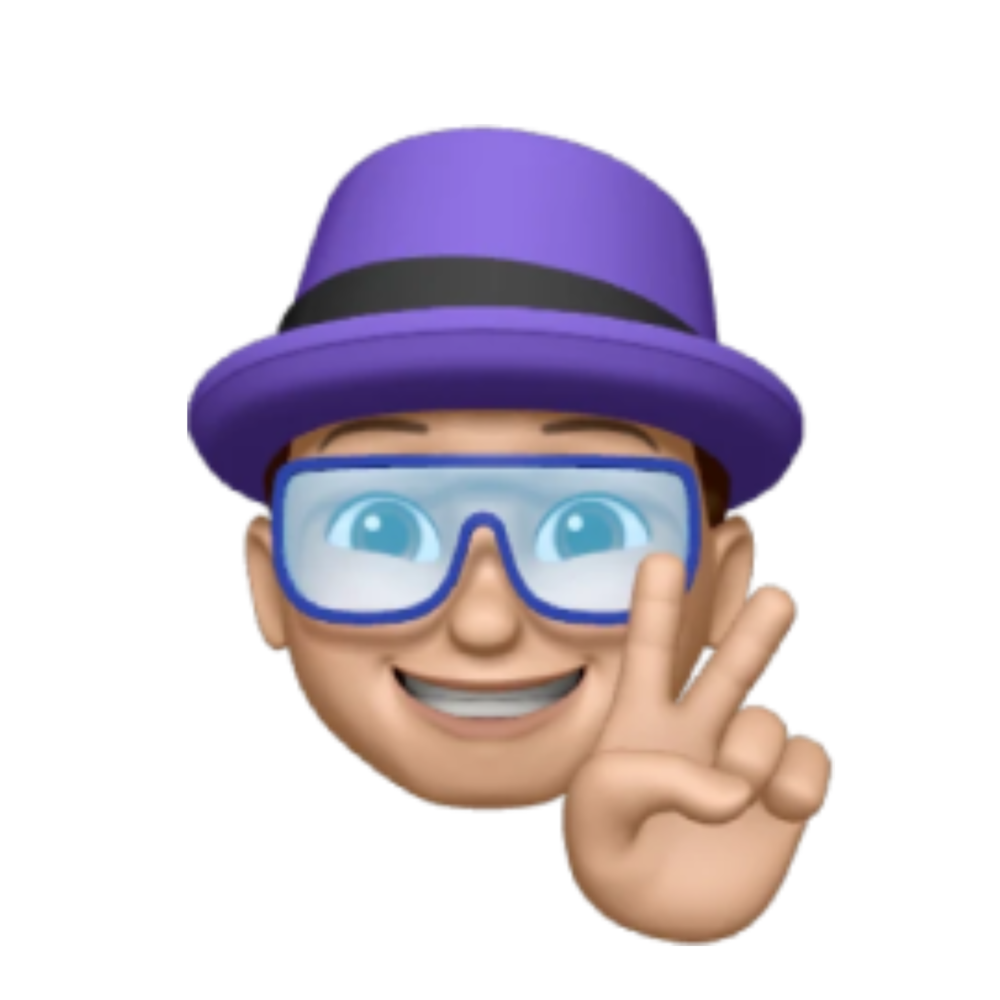
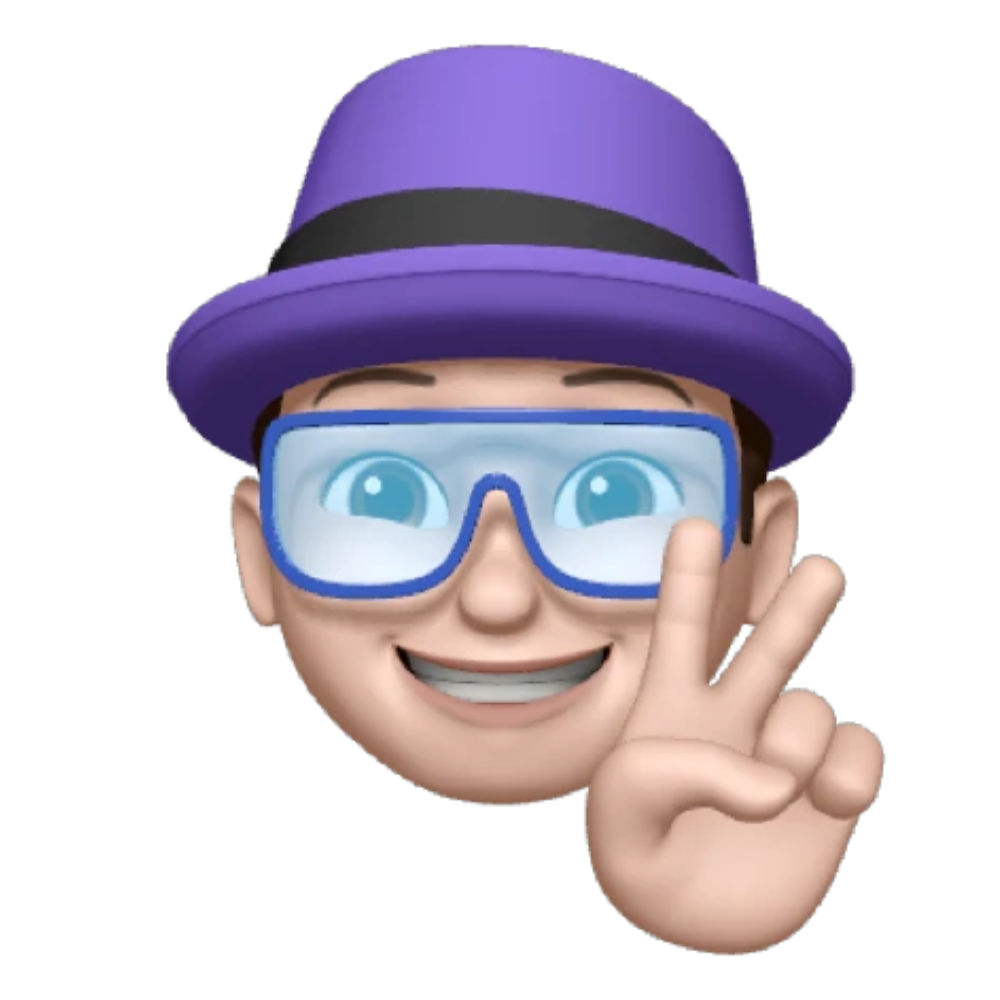
fix team block card paddings, compress images

diff --git a/src/app/pages/team/team.component.scss b/src/app/pages/team/team.component.scss
@@ -184,12 +184,12 @@
         justify-content: center;
         border-radius: 1.5625vw;
         background-color: #ffffff;
-        padding: 0 1.0416666666666667vw 1.3020833333333333vw 1.0416666666666667vw;
+        padding: 1.0416666666666667vw 1.0416666666666667vw 1.3020833333333333vw 1.0416666666666667vw;
 
         .avatar {
           align-self: center;
-          width: 14.0625vw;
-          height: 14.0625vw;
+          width: 12.239583333333334vw;
+          height: 12.239583333333334vw;
 
           img {
             width: 100%;
@@ -198,21 +198,38 @@
         }
 
         .name {
-          margin-top: 0.78125vw;
+          margin-top: 3.5vw;
+          height: 4.166666666666667vw;
 
           p {
             font-size: 2.0833333333333335vw;
+            line-height: 1;
             color: #201f1e;
           }
         }
 
         .role {
+          display: flex;
+          height: 1.71875vw;
+          align-items: flex-end;
           margin-top: 0.78125vw;
 
           p {
             font-size: 1.5625vw;
             color: rgba(32, 31, 30, 0.6);
           }
+        }
+      }
+
+      .ilyaU-card,
+      .maksim-card {
+        .name {
+          margin-top: 1vw;
+        }
+
+        .role {
+          height: 3.4375vw;
+          margin-top: 1.1979166666666667vw;
         }
       }
     }

diff --git a/src/app/pages/team/team.component.html b/src/app/pages/team/team.component.html
@@ -176,7 +176,7 @@
           <p>Директор дизайна</p>
         </div>
       </div>
-      <div class="item card">
+      <div class="item card ilyaU-card">
         <div class="avatar">
           <img src="assets/images/memojis/ilyaU.png" alt="" />
         </div>
@@ -204,7 +204,7 @@
           <p>Дизайнерка</p>
         </div>
       </div>
-      <div class="item card">
+      <div class="item card maksim-card">
         <div class="avatar">
           <img src="assets/images/memojis/maksim.png" alt="" />
         </div>
